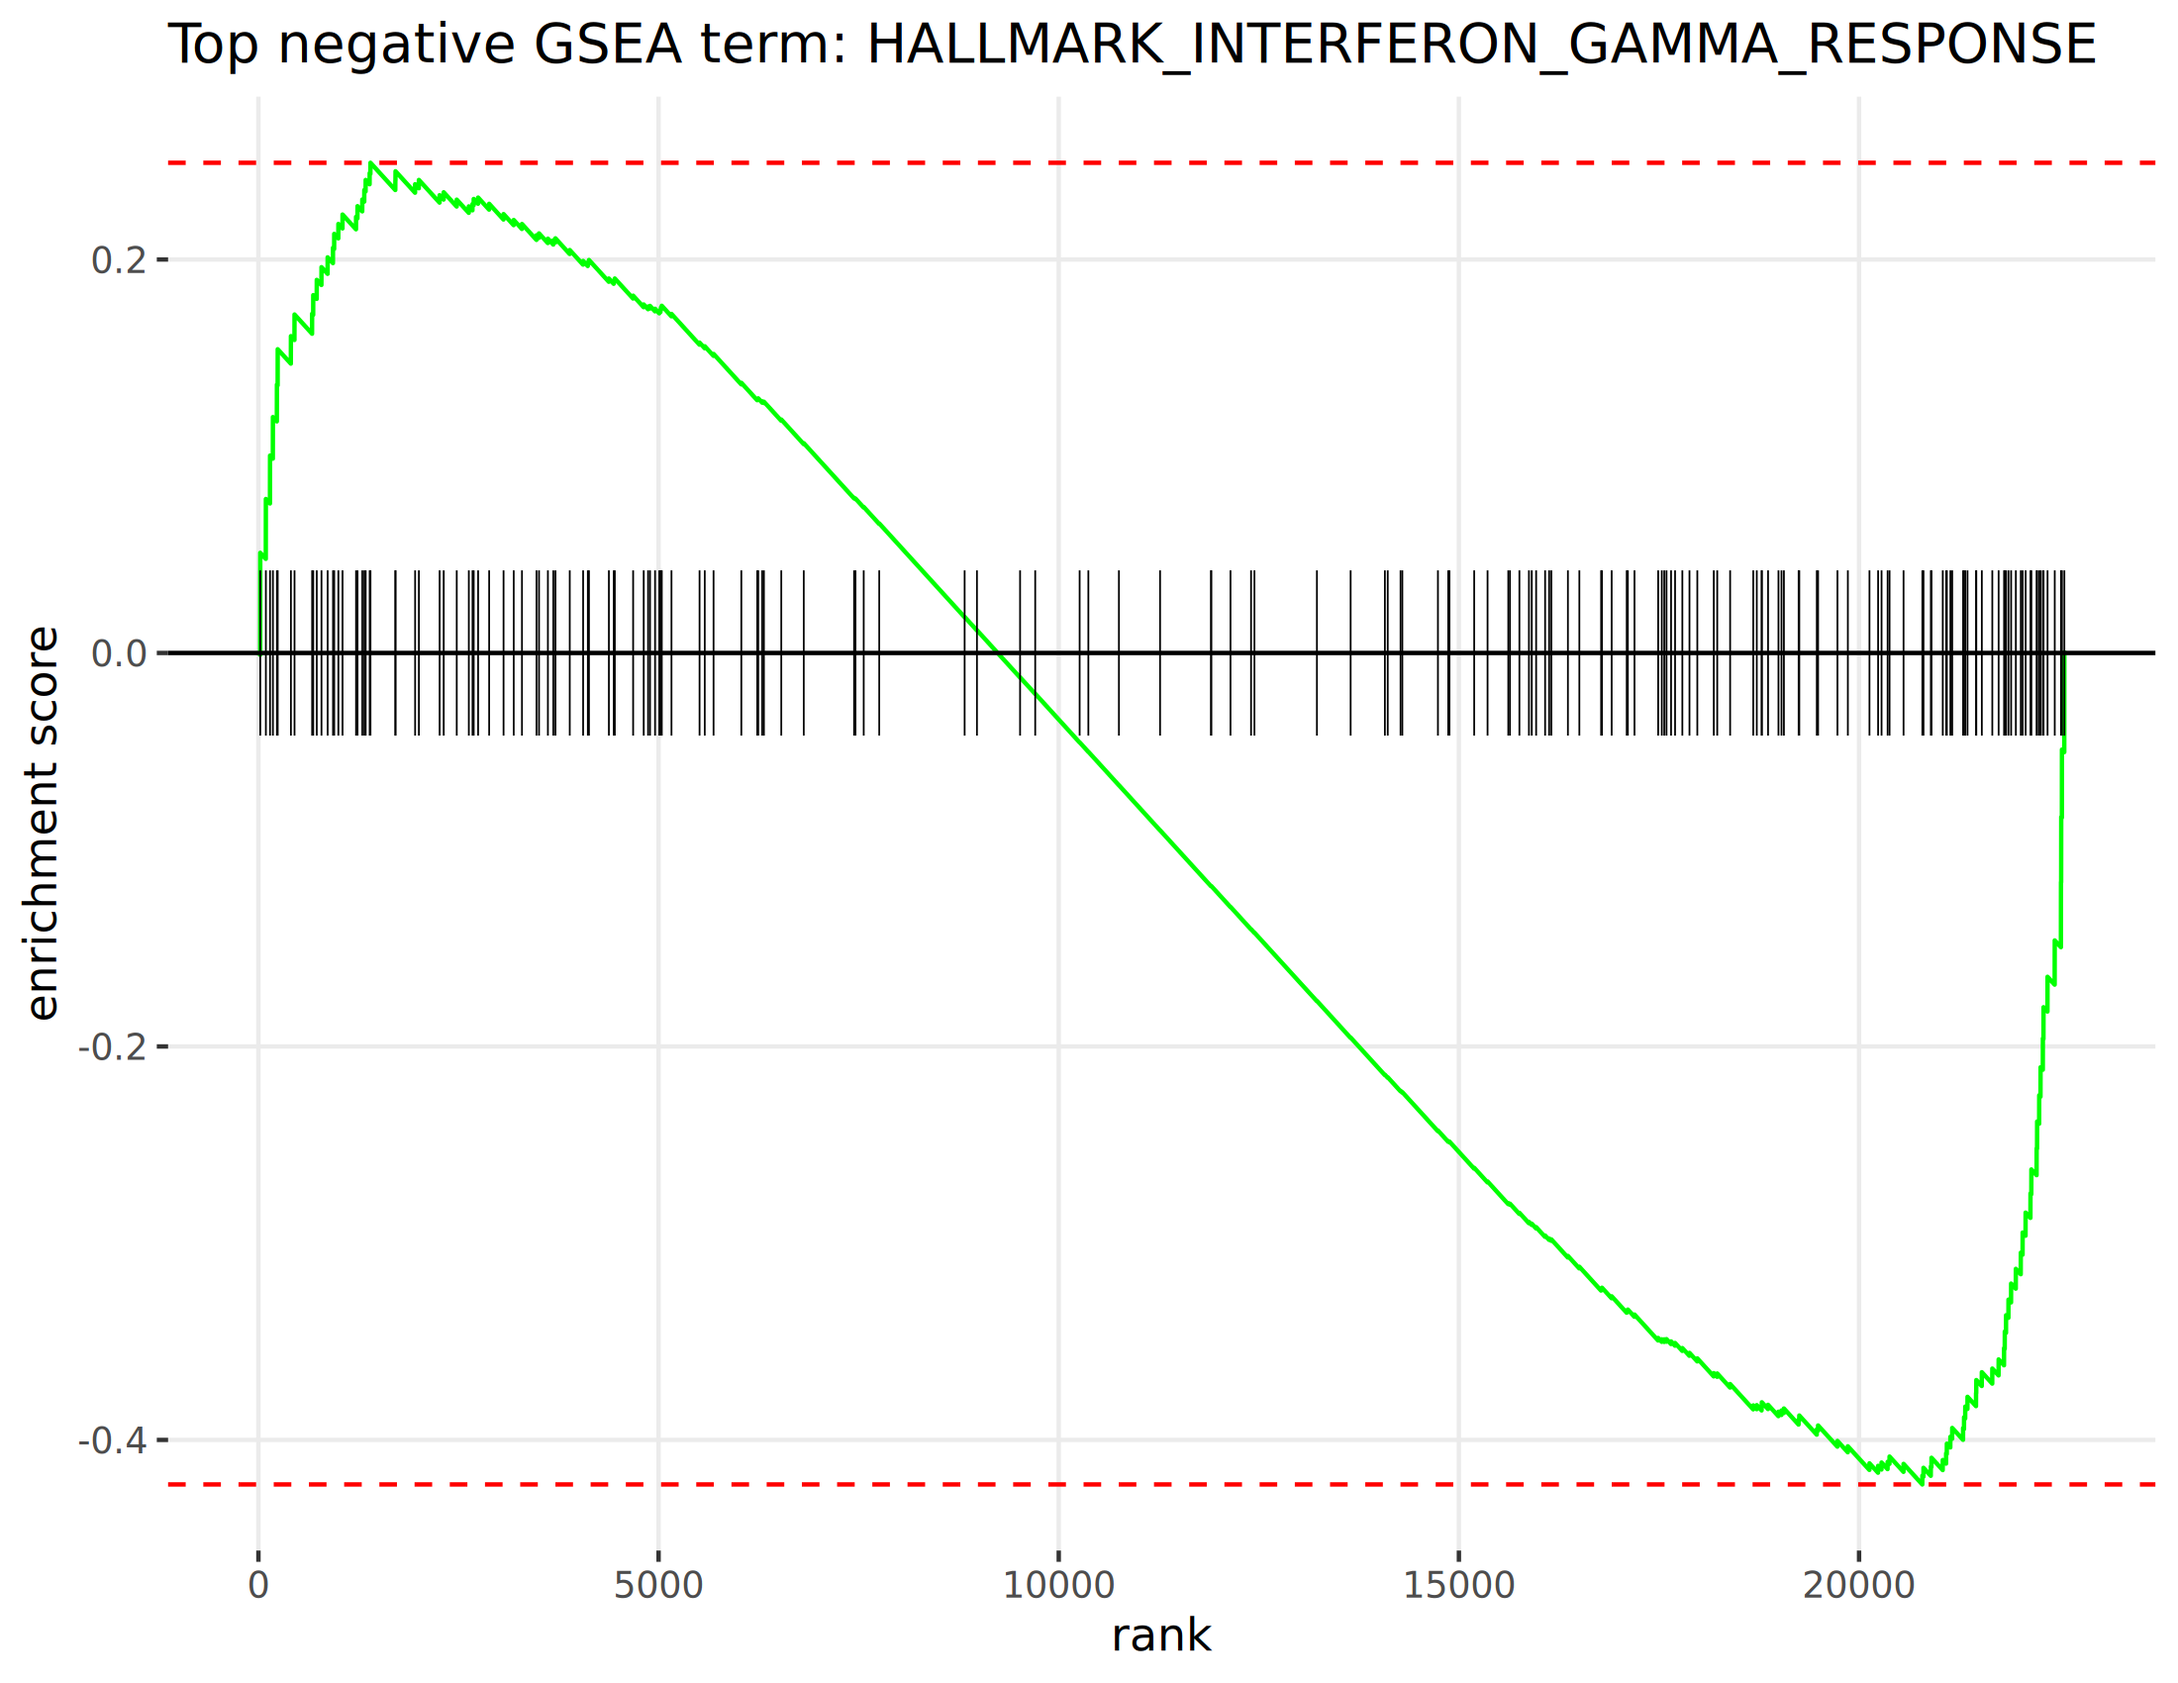
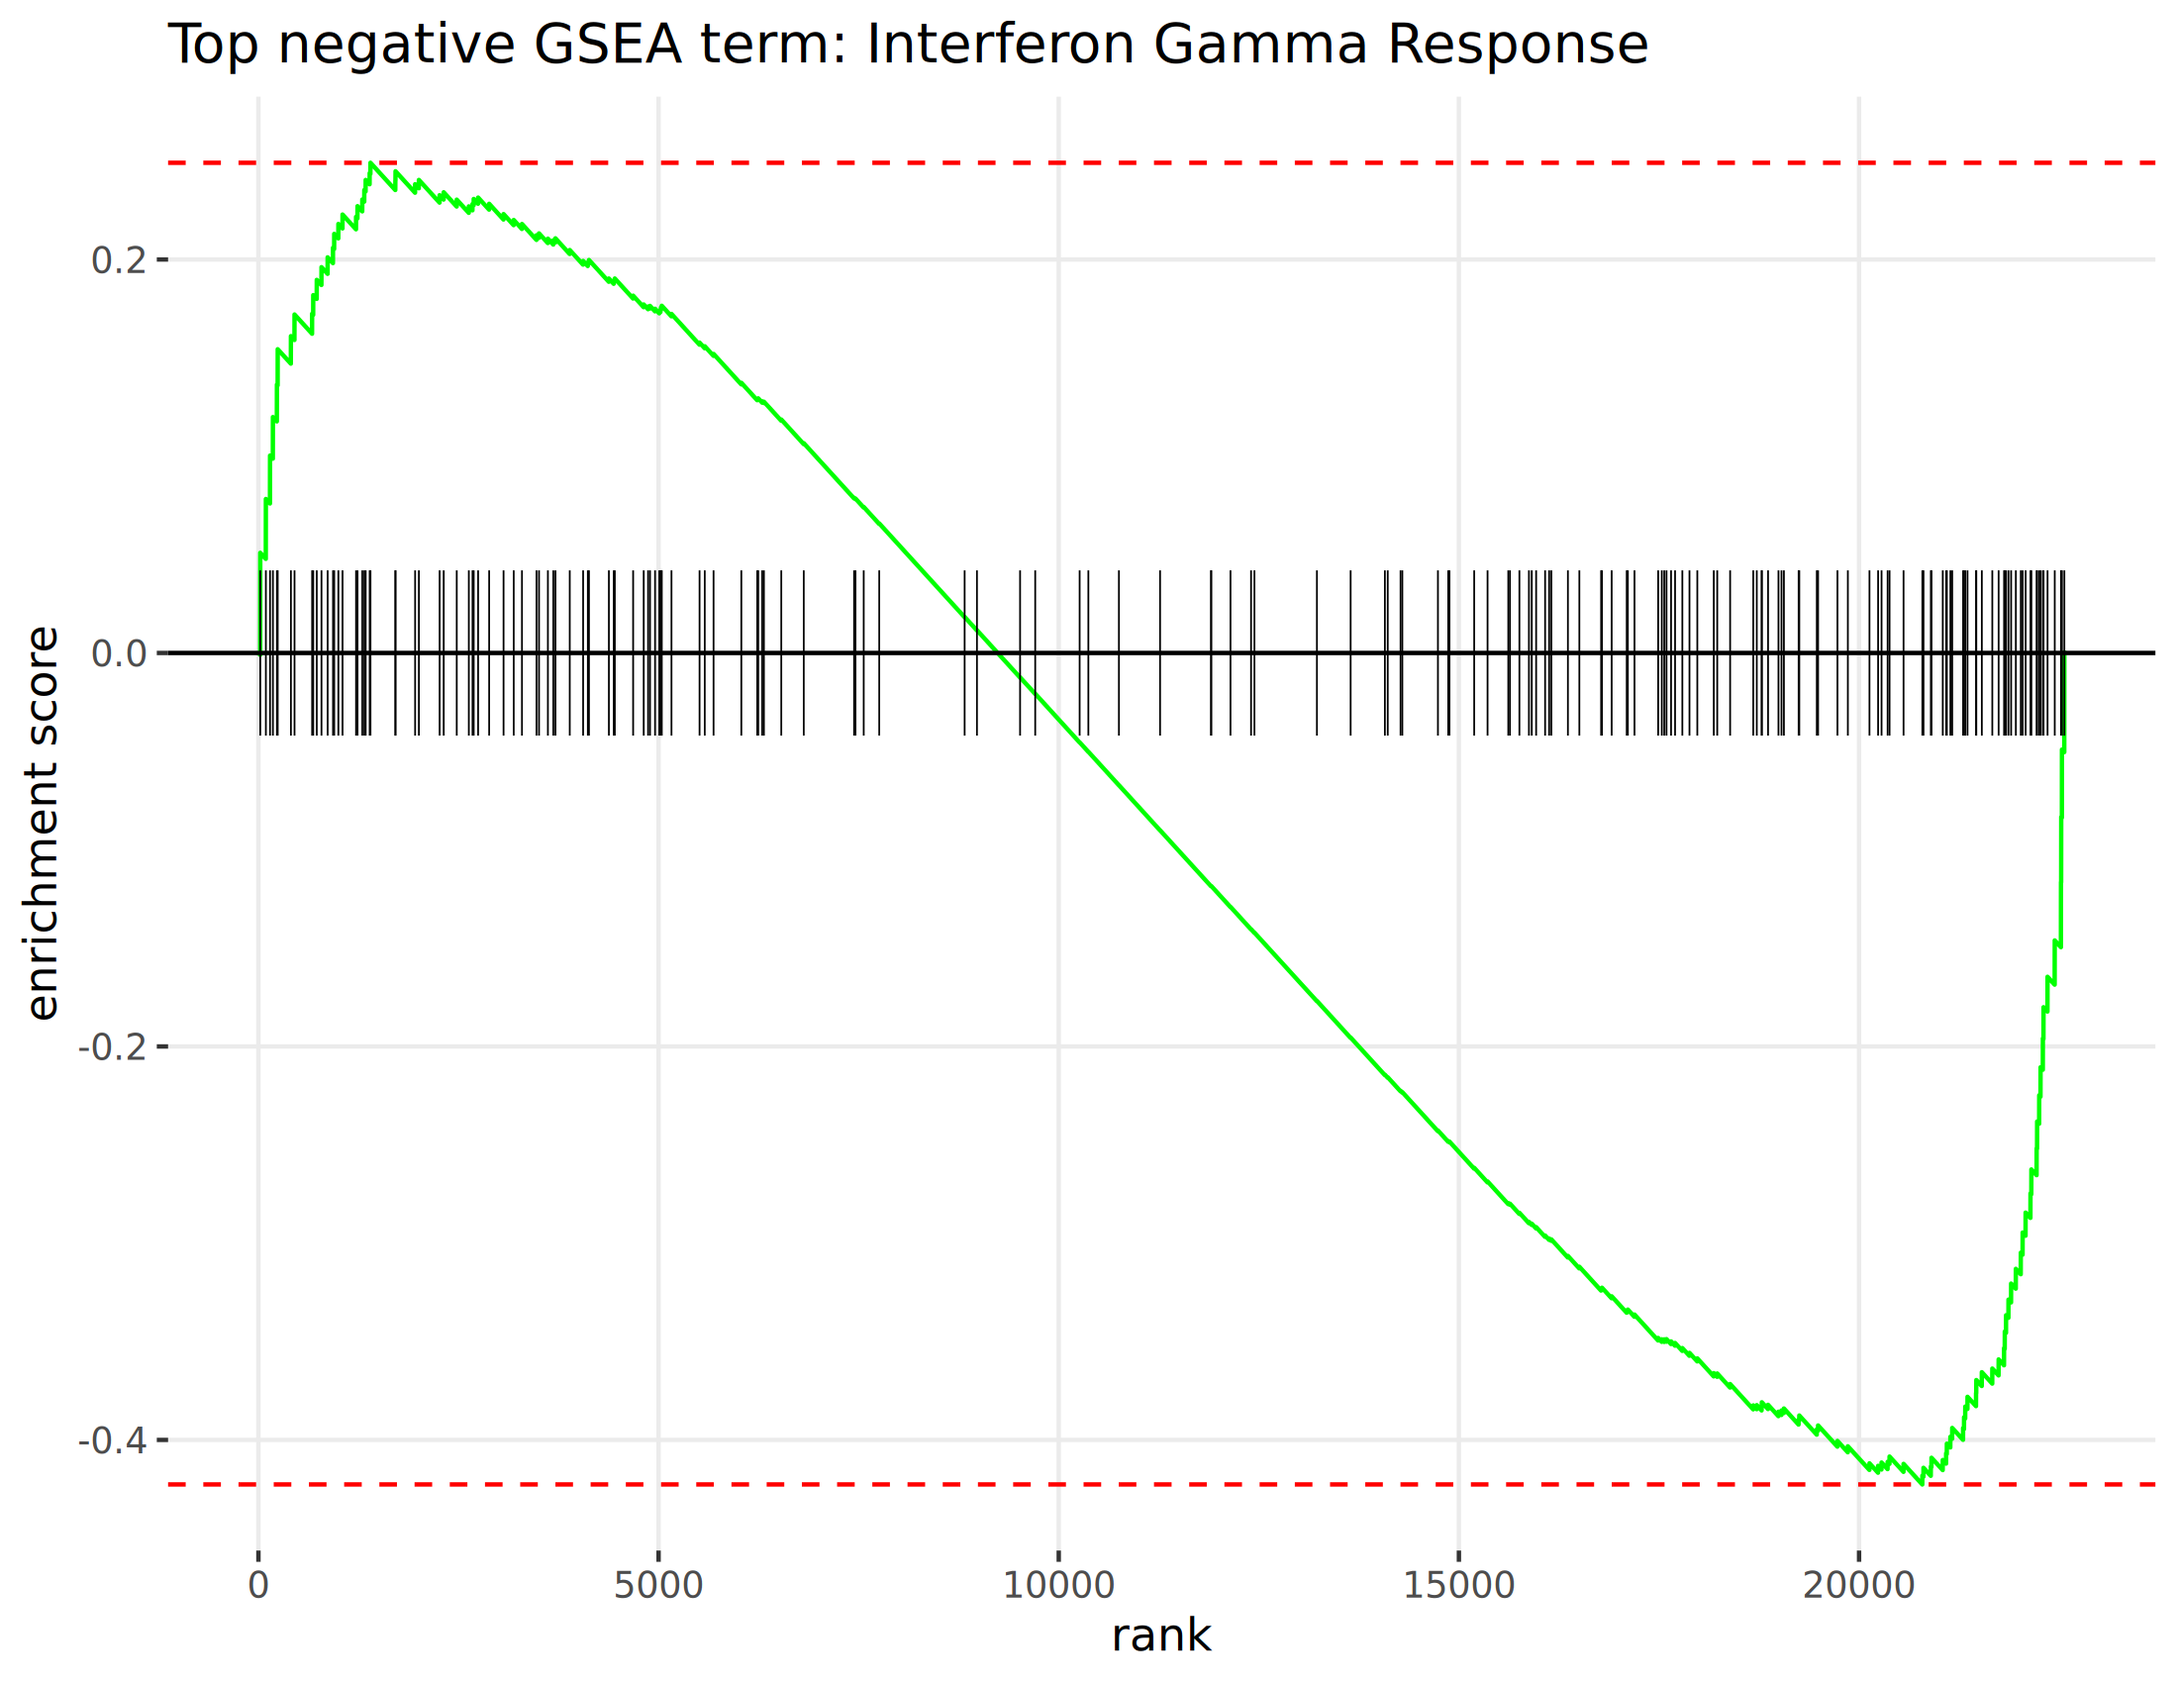
Improve readability of functional interpretation outputs

Changed region(s): [[0.4018, 0.0, 0.9582, 0.0624]]

diff --git a/README.md b/README.md
@@ -246,18 +246,18 @@ genes are doing together.
 ### 5a. ORA
 
 **Biological question**\
-What biological processes are over-represented among the genes that
-clearly change with treatment?
+What biological themes are over-represented among the genes that clearly
+change with treatment?
 
 **Input**\
 A thresholded DEG list using `padj < 0.05` and `|log2FoldChange| >= 1`.
 
 **Core method**\
 Over-representation analysis (ORA) on up- and down-regulated genes
-separately.
+separately using the curated Hallmark gene-set collection.
 
 **Main outputs**\
-ORA summary plot and tables of top enriched biological-process terms.
+ORA summary plot and tables of top enriched biological themes.
 
 **Interpretation**\
 ORA gives a first-pass biological summary, but it depends on the
@@ -273,29 +273,30 @@ threshold used to define DE genes.
 
 #### Top up-regulated themes
 
-| Term                                          | GeneRatio | Count | p.adjust |
-|:----------------------------------------------|:----------|------:|---------:|
-| External Encapsulating Structure Organization | 26/415    |    26 | 8.03e-05 |
-| Muscle System Process                         | 26/415    |    26 | 9.50e-03 |
-| Muscle Adaptation                             | 11/415    |    11 | 9.50e-03 |
-| Striated Muscle Adaptation                    | 7/415     |     7 | 9.50e-03 |
-| Regulation of System Process                  | 26/415    |    26 | 1.25e-02 |
-| Cell Substrate Adhesion                       | 22/415    |    22 | 1.32e-02 |
+| Term                              | GeneRatio | Count | p.adjust |
+|:----------------------------------|:----------|------:|---------:|
+| TNFA Signaling via NFkB           | 26/415    |    26 | 0.00e+00 |
+| Epithelial Mesenchymal Transition | 20/415    |    20 | 1.31e-05 |
+| Hypoxia                           | 15/415    |    15 | 1.64e-03 |
+| Xenobiotic Metabolism             | 12/415    |    12 | 1.94e-02 |
+| UV Response Down                  | 11/415    |    11 | 1.94e-02 |
+| Adipogenesis                      | 13/415    |    13 | 1.99e-02 |
 
 #### Top down-regulated themes
 
-| Term                                              | GeneRatio | Count | p.adjust |
-|:--------------------------------------------------|:----------|------:|---------:|
-| Circulatory System Process                        | 33/345    |    33 | 3.20e-06 |
-| Axon Development                                  | 30/345    |    30 | 1.47e-05 |
-| Regulation of Nervous System Development          | 26/345    |    26 | 1.47e-05 |
-| Regulation of Blood Circulation                   | 19/345    |    19 | 1.47e-05 |
-| Positive Regulation of Nervous System Development | 20/345    |    20 | 2.60e-05 |
-| Regulation of System Process                      | 27/345    |    27 | 1.04e-04 |
+| Term                              | GeneRatio | Count | p.adjust |
+|:----------------------------------|:----------|------:|---------:|
+| Epithelial Mesenchymal Transition | 16/345    |    16 | 0.000566 |
+| P53 Pathway                       | 14/345    |    14 | 0.002000 |
+| KRAS Signaling Up                 | 12/345    |    12 | 0.002320 |
+| TNFA Signaling via NFkB           | 12/345    |    12 | 0.008040 |
+| Inflammatory Response             | 10/345    |    10 | 0.011600 |
+| Interferon Gamma Response         | 10/345    |    10 | 0.036800 |
 
-In this dataset, ORA highlights the biological themes that stand out
-once we draw a hard line around the DE genes. That is useful, but it
-still throws away the graded information in the full ranked result.
+In this dataset, ORA highlights the clearest treatment-associated
+programs once we draw a hard line around the DE genes. That is useful,
+but it still throws away the graded information in the full ranked
+result.
 
 ### 5b. GSEA
 
@@ -329,16 +330,14 @@ sensitive to coordinated but moderate shifts.
 
 | Pathway                   |   NES |    padj | size | direction |
 |:--------------------------|------:|--------:|-----:|:----------|
-| Adipogenesis              |  1.73 | 0.00108 |  196 | Positive  |
-| Oxidative Phosphorylation |  1.52 | 0.03650 |  199 | Positive  |
-| Androgen Response         |  1.50 | 0.16000 |   97 | Positive  |
-| Tnfa Signaling via Nfkb   |  1.39 | 0.16000 |  193 | Positive  |
-| Xenobiotic Metabolism     |  1.40 | 0.20300 |  192 | Positive  |
-| Apical Junction           |  1.37 | 0.21300 |  188 | Positive  |
-| Uv Response Dn            |  1.30 | 0.21300 |  144 | Positive  |
-| Interferon Gamma Response | -1.29 | 0.21300 |  189 | Negative  |
-| Il2 Stat5 Signaling       |  1.29 | 0.21300 |  190 | Positive  |
-| Kras Signaling Dn         |  1.29 | 0.21300 |  167 | Positive  |
+| Adipogenesis              |  1.76 | 0.00072 |  196 | Positive  |
+| Oxidative Phosphorylation |  1.54 | 0.03620 |  199 | Positive  |
+| Androgen Response         |  1.52 | 0.12900 |   97 | Positive  |
+| Xenobiotic Metabolism     |  1.42 | 0.12900 |  192 | Positive  |
+| Interferon Gamma Response | -1.28 | 0.18500 |  189 | Negative  |
+| E2F Targets               | -1.27 | 0.18500 |  200 | Negative  |
+| KRAS Signaling Up         | -1.26 | 0.18500 |  182 | Negative  |
+| Allograft Rejection       | -1.23 | 0.20800 |  174 | Negative  |
 
 <figure>
 <img src="results/figures/gsea_top_positive.png"
